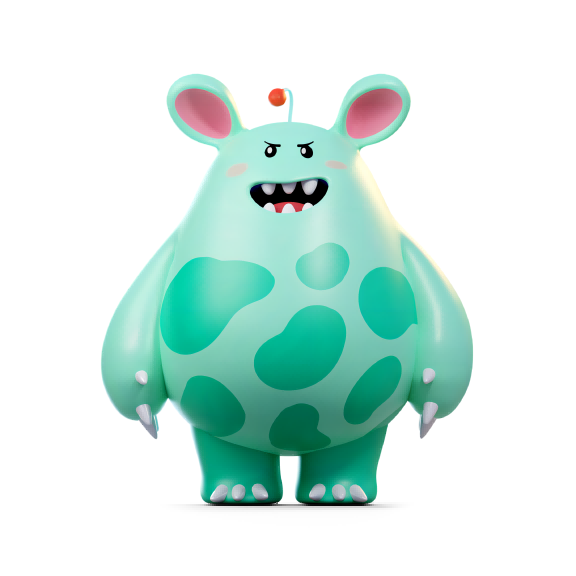
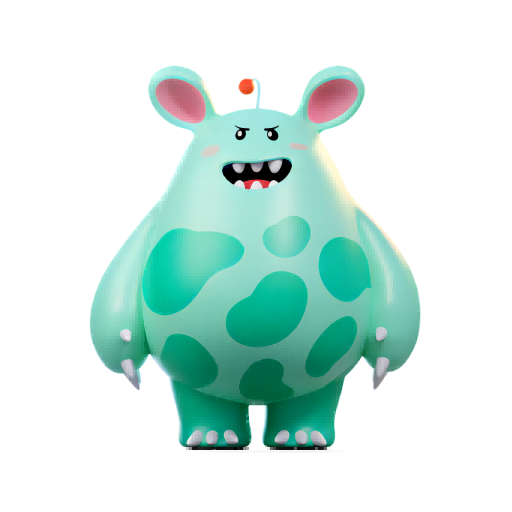
feat: welcome页功能介绍调整

Changed region(s): [[0.3438, 0.8438, 0.6562, 0.9062], [0.4688, 0.3438, 0.5312, 0.375]]

diff --git a/src/components/Welcome.vue b/src/components/Welcome.vue
@@ -109,7 +109,7 @@
           </div>
           <!-- 图片 -->
           <div class="welcome_img w-1/2 ml-20">
-            <img src="../assets/img/review.jpeg" alt="" />
+            <img src="../assets/img/单词1.png" alt="" />
           </div>
         </div>
       </div>
@@ -118,7 +118,7 @@
         <div class="wrap flex">
           <!-- 图片 -->
           <div class="welcome_img w-1/2 mr-20">
-            <img style="margin-left: 5%;" src="../assets/img/write.jpg" alt="" />
+            <img style="margin-left: 5%;" src="../assets/img/写作1.jpg" alt="" />
           </div>
           <!-- 简介 -->
           <div class="welcome_content w-1/2 rounded-2xl card_content_wrap">
@@ -147,7 +147,7 @@
           </div>
           <!-- 图片 -->
           <div class="welcome_img w-1/2 ml-20">
-            <img src="../assets/img/story.jpg" alt="" />
+            <img src="../assets/img/聊天1.png" alt="" />
           </div>
         </div>
       </div>
@@ -185,7 +185,7 @@
           </div>
           <div class="card_content_wrap">
             <div class="end_img">
-              <img src="../assets/img/newList.jpg" alt="" />
+              <img src="../assets/img/3.png" alt="" />
             </div>
           </div>
         </div>
